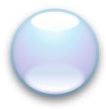
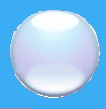
Change of design

diff --git a/src/skocko/Skocko.js b/src/skocko/Skocko.js
@@ -96,7 +96,6 @@ class Skocko extends React.Component {
 
   putGif = (img, imgNo) => {
     let { imgArray, rowCounter, positionCounter, showSolutions } = this.state;
-    // console.log(positionCounter);
 
     if (positionCounter <= 3 && showSolutions.visibility !== "visible") {
       imgArray[rowCounter][positionCounter].img = img;
@@ -108,8 +107,6 @@ class Skocko extends React.Component {
       positionCounter,
       rowCounter,
     });
-    // console.log(positionCounter);
-    // console.log("XXXXXXXX");
   };
 
   componentDidMount() {
@@ -134,14 +131,16 @@ class Skocko extends React.Component {
     this.setState({
       solutionChecked,
     });
-    let usersGuess = imgArray[rowCounter].map((item) => item.imgNo);
+    let usersGuess;
+    if (this.state.showSolutions.visibility !== "visible") {
+      usersGuess = imgArray[rowCounter].map((item) => item.imgNo);
+    }
     let noOfReds = 0;
     let noOfRedsAndYellows = 0;
     let noOfYellows = 0;
     let noOfGreys = 4;
 
     let noOfFlavours = new Array(6).fill(null).map((item) => (item = 0));
-    // console.log(noOfFlavours);
     for (let i = 0; i < 6; i++) {
       for (let j = 0; j < 4; j++) {
         if (arrayOfSolutions[j] === i + 1) {
@@ -176,12 +175,11 @@ class Skocko extends React.Component {
       pointsWon += " pts";
       this.setState({
         showSolutions: { visibility: "visible" },
-        pointsWonStyle: { opacity: 1 },
+        pointsWonStyle: { opacity: 1, fontSize: "97px" },
         pointsWon,
       });
     }
     noOfYellows = noOfRedsAndYellows - noOfReds;
-    // console.log(noOfFlavours);
     noOfGreys = 4 - noOfReds - noOfYellows;
     let displayResult = [];
     for (let i = 0; i < noOfReds; i++) {
@@ -209,8 +207,6 @@ class Skocko extends React.Component {
   };
   removeRow = () => {
     let { imgArray, rowCounter } = this.state;
-    console.log("Did it");
-    // if (imgArray[rowCounter][3].img !== "") {
     imgArray[rowCounter] = [
       { img: "", imgNo: "" },
       { img: "", imgNo: "" },
@@ -221,7 +217,6 @@ class Skocko extends React.Component {
       imgArray,
       positionCounter: 0,
     });
-    // }
   };
   render() {
     let { imgArrayOfSolutions } = this.state;

diff --git a/src/skocko/style.css b/src/skocko/style.css
@@ -13,18 +13,20 @@
   /* visibility: hidden; */
   opacity: 0;
   margin-top: 290px;
-  margin-left: 20px;
-  font-size: 95px;
-  color: red;
+  margin-left: 10px;
+  font-size: 35px;
+  color: yellow;
+  text-shadow: 2px 2px red;
   font-weight: bolder;
   font-family: "Franklin Gothic Medium", "Arial Narrow", Arial, sans-serif;
   font-style: italic;
-  transition: opacity 3s;
+  transition: opacity 2.5s;
+  transition: font-size 3s;
 }
 .guessing {
   width: 275px; /* 272       */
   height: 55px;
-  background-color: #f47;
+  /* background-color: #f47; */
   margin: 5px 8px;
 }
 
@@ -42,12 +44,12 @@
 .signs img {
   width: 42px;
   height: 49px;
-  border: 2px solid red;
+  border: 2px solid #48cef4;
 }
 
 .classWithinComp {
   /* background-color: #ddd333; */
-  border: 1px solid green;
+  /* border: 1px solid green; */
   display: flex;
   flex-direction: row;
 }
@@ -57,7 +59,8 @@
   flex-direction: row;
   width: 45px; /*  45 SIRINA  */
   height: 53px;
-  background-color: white;
+  background-color: #45b3f7;
+
   margin-left: 2px;
   margin-top: 1px;
   margin-left: 1px;

diff --git a/src/skocko/Skocko.skin.js b/src/skocko/Skocko.skin.js
@@ -1,7 +1,7 @@
 import styled from "styled-components";
 
 export const GuessingContainer = styled("div")`
-  background-color: #f56;
+  background-color: #38aef4;
   border-radius: 4px;
   border: 2px solid green;
   margin-top: 15px;
